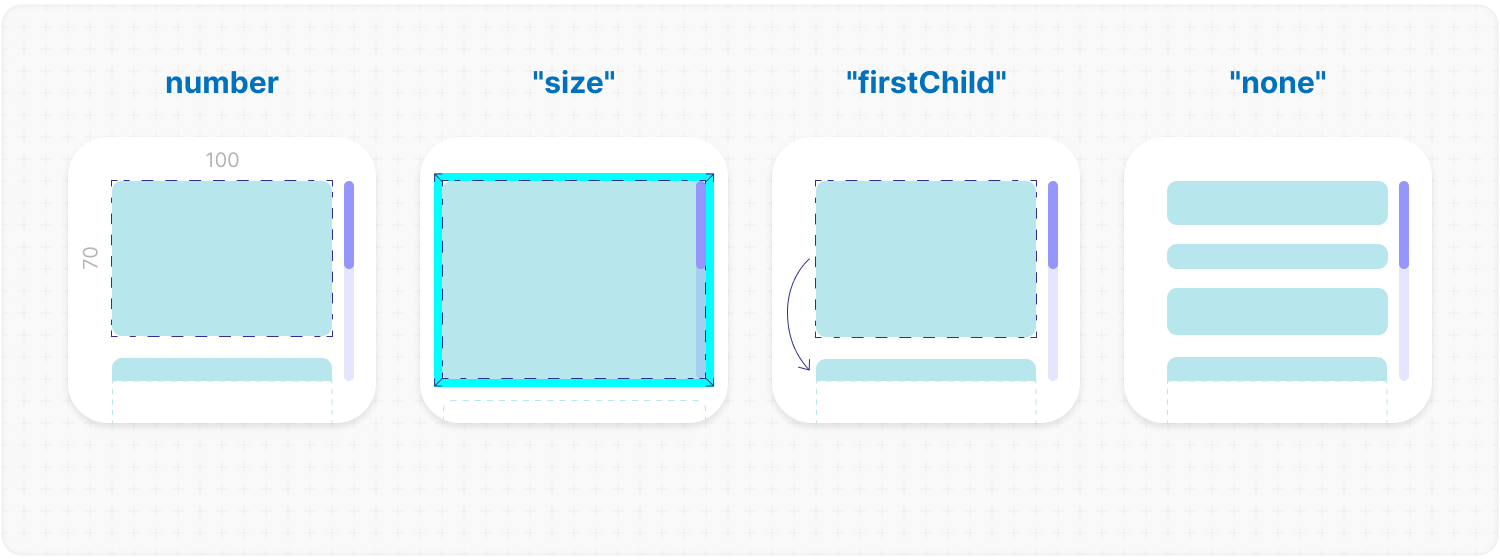
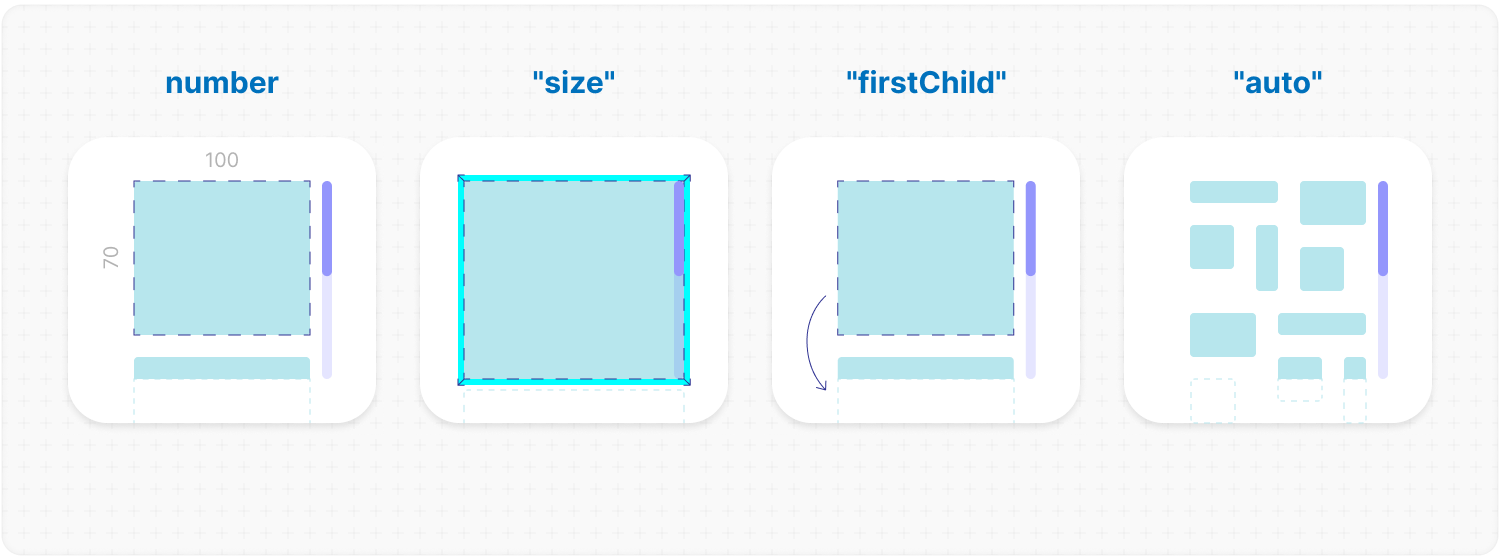
docs: раздел objects.size описывает нынешнее умолчание
Default говорил, что размер отдан CSS, — так было до правок. Теперь там
разобрано, что выходит при каждом направлении и в режимах слайдера, с
единственным исключением: lines больше одного на одной оси остаётся
сеткой, дорожки которой меряет CSS.

Всё проверено замером при окне 400x300 и полях 10: y даёт 380x90, x —
40x280, hybrid — 40x90, любой слайдер — 380x280, то есть режим отвечает
раньше направления, а hybrid с lines в сетку не уходит.

Заодно: number не был выделен как остальные значения; gap описывался как
"для строк и столбцов", что читается наоборот — пара это [x, y], проверил
замером; у lines не было Default.

diff --git a/README.md b/README.md
@@ -560,12 +560,23 @@ size: 100; // or [100, 70] | [100, null] | "full" | "firstChild" | "auto"
 ```
 
 <b>Default:</b><br />
-the sizing is left to your CSS<br />
+an unnamed <code>size</code> does not stand aside — it answers for the objects, and the answer follows the scroll: across it an object takes all the room there is, along it the size is its own.<br />
+
+<ul>
+  <li><code>direction="y"</code> — <b>["full", "auto"]</b>: a row the width of the scroll, as tall as its own content.</li><br />
+  <li><code>direction="x"</code> — <b>["auto", "full"]</b>: a column the height of the scroll, as wide as its own content.</li><br />
+  <li><code>direction="hybrid"</code> — <b>"auto"</b>: both sides are the object's own, because both axes move and neither bounds a line. That leaves the count to <code>lines</code>, which is <b>1</b> there unless you raise it.</li><br />
+  <li><code>mode="slider"</code> or <b>"sliderMenu"</b> — <b>"full"</b>: a page is the window, so the object is too. The mode answers before the direction does.</li>
+</ul>
+
+Every one of those can be counted, so <code>render</code>, <code>loop</code> and <code>render.trackVisibility</code> work with nothing named at all.<br />
+<br />
+One case is left alone: <code>lines</code> above <b>1</b> on a single axis. That is a grid of as many tracks as you named, each as wide as its content — your CSS decides those widths, nothing can count them, and <code>render</code> stays off until you name a size.<br />
 <br />
 <b>Description:</b><em><br />
 defines the <b>[width, height]</b> of cells for each of your objects.<br />
 <br />
-<code>number</code>:<br />
+<code><b>number</b></code>:<br />
 sets a fixed size for your custom objects.<br />
 <br />
 <code><b>"full"</b></code>:<br />
@@ -578,26 +589,12 @@ This can be useful if you want to change the size of objects in your list dynami
 <code><b>"auto"</b></code>:<br />
 every object gets the size it asks for, and the library measures it. Which side you hand over settles how the objects are then arranged: the side along the scroll is a <b>masonry</b> — fixed columns, each object into the shortest one; the side across it, or both, is a <b>flow</b> — objects fill a line one after another, and a new line starts when the room runs out or when <code>lines</code> says it is full.<br />
 <br />
-<code>"auto"</code> on its own says it about both sides at once — the same as <code>["auto", "auto"]</code>.<br />
-<br />
 One observer measures the whole scroll, and an object is watched while it is on screen: a picture that arrives late moves its neighbours instead of leaving the layout wrong. Sizes are remembered by the child's <code>key</code>, so they survive virtualization, and unmeasured objects are drawn a batch at a time.<br />
 <br />
 <b>a side left to your CSS</b>:<br />
 cells are still created, but not measured — they wrap your objects and the sizing is left to your CSS. The side is named <code>null</code>: <code>[100, null]</code> is a fixed width with the height decided by the content.<br />
 <br />
 Lines still work here, because <code>lines</code> counts objects rather than pixels: it is the one thing that can end a line when the width is not ours to know.<br />
-<br />
-<b>nothing at all</b>:<br />
-leaving <code>size</code> out does not stand aside — it answers for the objects, and the answer follows the scroll. Across it an object takes the whole window; along it the size is its own:<br />
-
-<ul>
-  <li><code>direction="y"</code>: a row the width of the scroll, as tall as its content — the same as <code>size: ["full", "auto"]</code>.</li><br />
-  <li><code>direction="x"</code>: a column the height of the scroll, as wide as its content — <code>["auto", "full"]</code>.</li><br />
-  <li><code>direction="hybrid"</code>: both sides are the object's own — <code>"auto"</code>.</li><br />
-  <li><code>mode="slider"</code> and <code>"sliderMenu"</code>: a page is the window, so the object is too — <code>"full"</code>.</li>
-</ul>
-
-All of those can be counted, so <code>render</code>, <code>loop</code> and <code>trackVisibility</code> work with nothing named at all. The one exception is <code>lines</code> above one without a size: that is the grid above, whose track widths your CSS decides — nothing can count them, and the default leaves it alone.<br />
 <br />
 ✦ Note:<br />
 
@@ -629,6 +626,9 @@ All of those can be counted, so <code>render</code>, <code>loop</code> and <code
 lines: 2;
 ```
 
+<b>Default:</b><br />
+as many as the room across allows — and <b>1</b> under <code>direction="hybrid"</code>, where there is no room to ask<br />
+<br />
 <b>Description:</b><em><br />
 how many lines the objects run in, across the scroll — columns on a vertical scroll, rows on a horizontal one.<br />
 <br />
@@ -662,7 +662,7 @@ gap: 10; // or [20, 10]
 ```
 
 <b>Description:</b><em><br />
-allows you to set spacing in pixels between list items for rows and columns.</em><br />
+space between the objects, in pixels. One number holds both ways; a pair is <b>[x, y]</b> — sideways first, as everywhere else in the library.</em><br />
 <br />
 <b>Example:</b>
 
